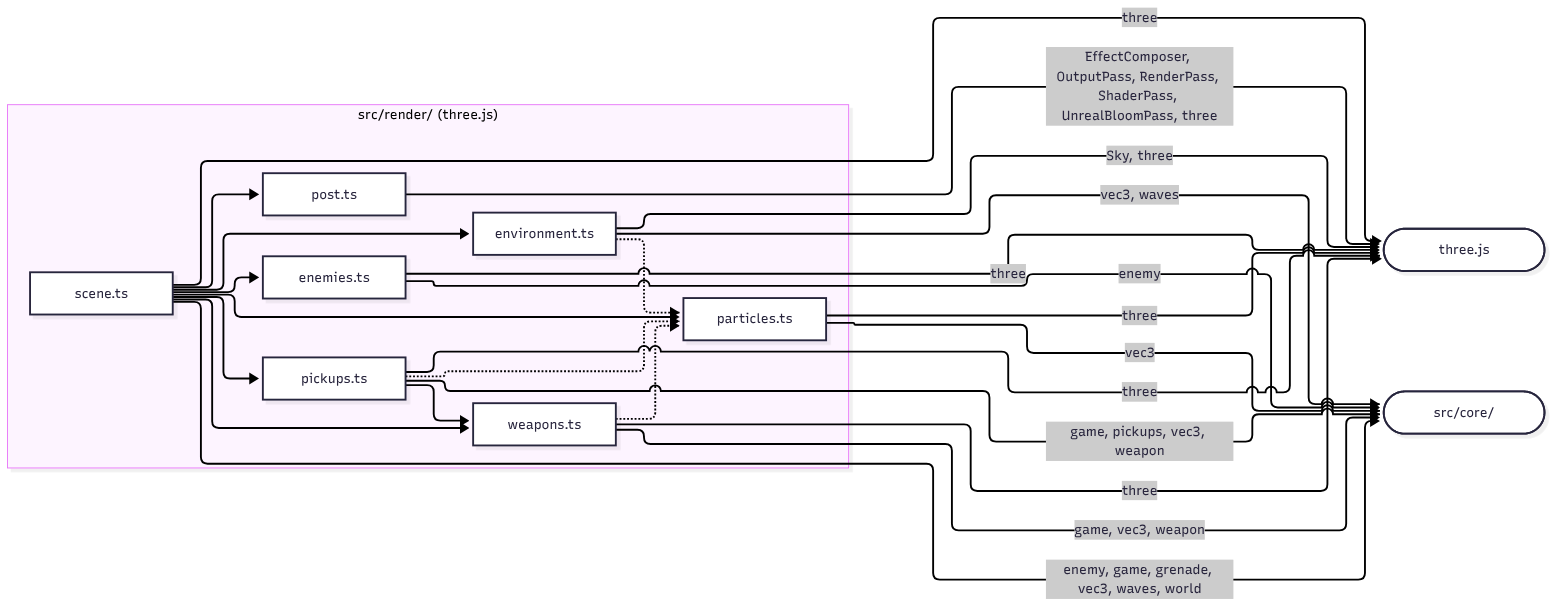
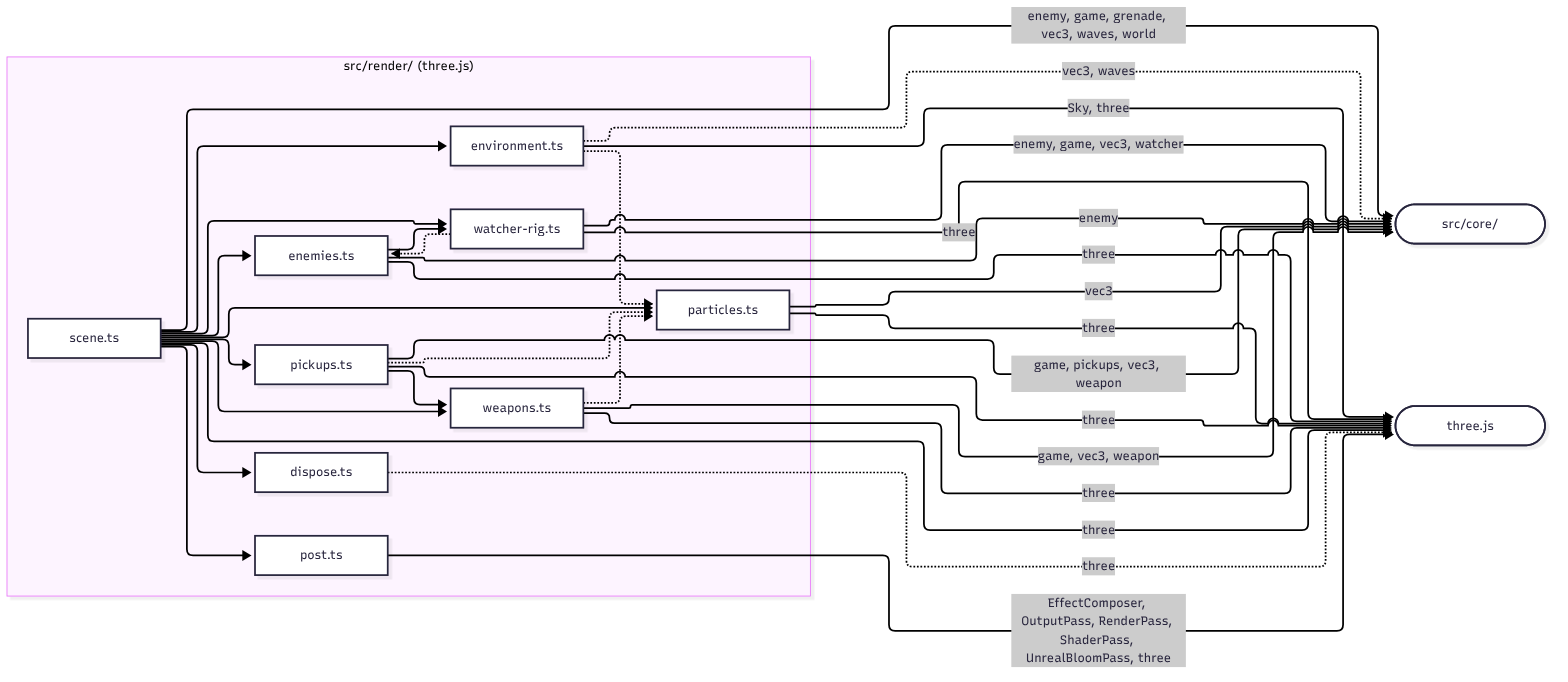
docs(architecture): regenerate against main's watcher, dispose and security job
Add responsibilities for src/core/watcher.ts, src/render/watcher-rig.ts and
src/render/dispose.ts, register the watcher rig as an event consumer and
teach the generator the `e.type !== 'x'` guard form, annotate the dropped
accumulator backlog in the frame view, and add the eighth CI job and the
CSS lint to the build view.

Claude-Session: https://claude.ai/code/session_01HcCM3Yec1g3wZNaWzyGM1b

Changed region(s): [[0.0, 0.0, 1.0, 0.9902], [0.0, 0.0619, 0.5, 0.1238], [0.125, 0.8046, 0.1562, 0.8355]]

diff --git a/docs/architecture/modules.md b/docs/architecture/modules.md
@@ -13,7 +13,7 @@ created: 2026-10-21
 
 > [Ringfall](../../README.md) > [Architecture](README.md) > Module map
 
-Every TypeScript module under `src/` with its responsibility and what it imports, read from the import declarations by `scripts/architecture.mjs`. The tree holds 30 modules in 6 layers (`audio`, `core`, `hud`, `input`, `main`, `render`) joined by 99 internal imports. A dotted arrow in the diagrams is a type-only import, which Vite erases from the bundle; a solid arrow carries runtime code.
+Every TypeScript module under `src/` with its responsibility and what it imports, read from the import declarations by `scripts/architecture.mjs`. The tree holds 33 modules in 6 layers (`audio`, `core`, `hud`, `input`, `main`, `render`) joined by 113 internal imports. A dotted arrow in the diagrams is a type-only import, which Vite erases from the bundle; a solid arrow carries runtime code.
 
 ## Allowed dependencies
 
@@ -53,7 +53,7 @@ Source: [diagrams/render-components.mmd](diagrams/render-components.mmd).
 | `src/audio/offline.ts` | `audio` | Offline score: re-runs a seeded playtest and renders its events into an `OfflineAudioContext` | `core/game` (types), `core/playtest`, `audio/sounds` |
 | `src/audio/sounds.ts` | `audio` | The procedural sound table keyed by event, the `SILENT` list and the voice scheduler | `core/game` (types), `core/weapon` |
 | `src/core/bot.ts` | `core` | Scripted player: reads the state a human could see and returns an `InputFrame` | `core/enemy`, `core/game`, `core/grenade`, `core/pickups` (types), `core/raycast`, `core/rng` (types), `core/vec3`, `core/weapon`, `core/world` (types) |
-| `src/core/enemy.ts` | `core` | Enemy state machine (`spawning`, `chase`, `attack`, `flee`, `dead`), skimmer temperaments, the rout and its bark lines | `core/rng` (types), `core/vec3`, `core/world` |
+| `src/core/enemy.ts` | `core` | Enemy state machine (`spawning`, `chase`, `attack`, `flee`, `dead`), skimmer temperaments, the rout and its bark lines | `core/rng` (types), `core/vec3`, `core/watcher`, `core/world` |
 | `src/core/game.ts` | `core` | `GameState`, `InputFrame`, the `GameEvent` union and `stepGame`: one simulation tick as a draft, eight systems in order, then a frozen state | `core/enemy`, `core/grenade`, `core/pickups`, `core/projectile`, `core/raycast`, `core/rng`, `core/vec3`, `core/vitality`, `core/waves`, `core/weapon`, `core/world` |
 | `src/core/grenade.ts` | `core` | Thrown grenades and launcher rounds: bounce, fuse, blast falloff | `core/vec3`, `core/world` |
 | `src/core/pickups.ts` | `core` | Weapon pickups: drops, wave rewards, expiry, reach and the two-slot inventory | `core/enemy` (types), `core/rng` (types), `core/vec3`, `core/weapon`, `core/world` |
@@ -65,16 +65,19 @@ Source: [diagrams/render-components.mmd](diagrams/render-components.mmd).
 | `src/core/settings.ts` | `core` | Sensitivity, field of view and motion toggles over the same storage interface | none |
 | `src/core/vec3.ts` | `core` | Immutable vector helpers and `directionFromAngles`, the single source of the yaw and pitch convention | none |
 | `src/core/vitality.ts` | `core` | Regenerating shield over fixed health; damage order and recharge | none |
+| `src/core/watcher.ts` | `core` | The watcher archetype: holds a perimeter band, strafes, telegraphs and fires a hitscan beam that cover stops | `core/enemy` (types), `core/raycast`, `core/rng` (types), `core/vec3`, `core/world` |
 | `src/core/waves.ts` | `core` | Wave state machine, composition formula, `FINAL_WAVE`, the atmosphere table | `core/enemy` (types) |
 | `src/core/weapon.ts` | `core` | Six weapon kinds as data in `WEAPON_SPECS`; magazine, reload, trigger, charge, spin-up and falloff rules | `core/raycast`, `core/vec3` (types), `core/world` (types) |
 | `src/core/world.ts` | `core` | Seeded arena generation, cover boxes, the hidden switch, axis-separated collision | `core/rng` (types), `core/vec3` |
 | `src/hud/hud.ts` | `hud` | DOM heads-up display, announcements, hit marker, damage direction and the 2D-canvas motion tracker | `core/enemy`, `core/game`, `core/vec3` (types), `core/waves`, `core/weapon`, `core/world` |
 | `src/input/input.ts` | `input` | Keyboard, mouse, wheel and pointer lock into an `InputFrame`; one-shot actions latched between steps | `core/game`, `core/vec3` |
 | `src/main.ts` | `main` | Fixed 60 Hz accumulator loop, hit-stop, overlay and pointer-lock lifecycle, settings panel, the `?record` capture hook | `audio/audio`, `audio/offline`, `core/bot`, `core/game`, `core/records`, `core/rng`, `core/settings`, `hud/hud`, `input/input`, `render/scene` |
-| `src/render/enemies.ts` | `render` | Composite enemy rigs built from primitives, with their animation | `three`, `core/enemy` |
+| `src/render/dispose.ts` | `render` | `disposeTree`: frees geometry, materials and textures under an object before it is dropped | `three` (types) |
+| `src/render/enemies.ts` | `render` | Composite enemy rigs built from primitives, with their animation | `three`, `core/enemy`, `render/watcher-rig` |
 | `src/render/environment.ts` | `render` | Sky, sun and moon, the ring, terrain, stars, the atmosphere rigs and weather overlays | `three`, `three/addons/objects/Sky.js`, `core/vec3` (types), `core/waves` (types), `render/particles` (types) |
 | `src/render/particles.ts` | `render` | GPU particle pool: one `Points` draw call, birth state written once, integrated in the vertex shader | `three`, `core/vec3` (types) |
 | `src/render/pickups.ts` | `render` | Pickup emblems, halos and the spawn and take flourishes | `three`, `core/game` (types), `core/pickups` (types), `core/vec3` (types), `core/weapon` (types), `render/particles` (types), `render/weapons` |
 | `src/render/post.ts` | `render` | HDR composer: render pass, capped bloom prefilter, feel pass, ACES output | `three`, `three/addons/postprocessing/EffectComposer.js`, `three/addons/postprocessing/OutputPass.js`, `three/addons/postprocessing/RenderPass.js`, `three/addons/postprocessing/ShaderPass.js`, `three/addons/postprocessing/UnrealBloomPass.js` |
-| `src/render/scene.ts` | `render` | `SceneRenderer`: owns the three.js scene, camera and post stack; mirrors `GameState` every frame and plays effects for events | `three`, `core/enemy` (types), `core/game`, `core/grenade`, `core/vec3` (types), `core/waves`, `core/world`, `render/enemies`, `render/environment`, `render/particles`, `render/pickups`, `render/post`, `render/weapons` |
+| `src/render/scene.ts` | `render` | `SceneRenderer`: owns the three.js scene, camera and post stack; mirrors `GameState` every frame and plays effects for events | `three`, `core/enemy` (types), `core/game`, `core/grenade`, `core/vec3` (types), `core/waves`, `core/world`, `render/dispose`, `render/enemies`, `render/environment`, `render/particles`, `render/pickups`, `render/post`, `render/watcher-rig`, `render/weapons` |
+| `src/render/watcher-rig.ts` | `render` | The watcher rig: a tall tripod with a lens that brightens over the charge, and the beam layer | `three`, `core/enemy` (types), `core/game` (types), `core/vec3` (types), `core/watcher`, `render/enemies` (types) |
 | `src/render/weapons.ts` | `render` | One viewmodel rig per weapon kind: draw, recoil, muzzle flash, tracers, beam and launcher effects | `three`, `core/game` (types), `core/vec3` (types), `core/weapon`, `render/particles` (types) |

diff --git a/docs/architecture/README.md b/docs/architecture/README.md
@@ -94,7 +94,7 @@ Source: [diagrams/containers.mmd](diagrams/containers.mmd).
 | Luminance gate | Playwright Chromium on software GL | Ten seeded frames measured against budgets | `scripts/frames.mjs` |
 | Recorder and score | Playwright Chromium, ffmpeg, `OfflineAudioContext` | A seeded film and its soundtrack | `scripts/record-demo.mjs`, `scripts/render-score.mjs` |
 | Reel | Playwright Chromium, ffmpeg | Title cards, two waves, stitched cut | `scripts/reel.mjs` |
-| CI | GitHub Actions, every action pinned to a commit SHA | Seven gate jobs and the Pages deploy | `.github/workflows/` |
+| CI | GitHub Actions, every action pinned to a commit SHA | Eight gate jobs and the Pages deploy | `.github/workflows/` |
 
 ## Level 3: components
 
@@ -121,7 +121,8 @@ module imports three.js directly.
 `requestAnimationFrame` callback adds the elapsed wall time, clamped to
 between zero and a tenth of a second, to an accumulator, then steps the
 simulation at exactly 1/60 s while at least that much time is banked,
-capped at five steps per frame. Each step takes one `InputFrame` from the
+capped at five steps per frame; anything banked beyond that cap is dropped
+rather than deferred, so a stalled tab never fast-forwards. Each step takes one `InputFrame` from the
 input controller (or from the bot in `?bot` mode), calls `stepGame`, and
 fans the returned events out to the renderer, the HUD and the audio bank,
 in that order. After the steps the HUD renders the state and the renderer
@@ -181,7 +182,8 @@ runs the same scripts.
 | `pnpm dev` | Vite dev server with hot reload on port 5173 |
 | `pnpm build` | `tsc --noEmit`, then `vite build` to `dist/` |
 | `pnpm preview` | Serves `dist/` on port 4173; Playwright and the harnesses use it |
-| `pnpm lint`, `pnpm lint:fix` | Biome in CI mode plus markdownlint; the fix variant rewrites |
+| `pnpm lint`, `pnpm lint:fix` | Biome in CI mode, markdownlint, stylelint and Prettier on CSS; the fix variant rewrites |
+| `pnpm audit` | Production dependency advisories at high severity or above |
 | `pnpm typecheck` | Strict `tsc --noEmit` |
 | `pnpm test` | Vitest unit and balance suites with V8 coverage thresholds on `src/core/` |
 | `pnpm test:e2e` | Playwright smoke tests in real Chromium against `vite preview` |
@@ -192,7 +194,7 @@ runs the same scripts.
 | `pnpm balance` | The balance gate; writes `test-results/balance/` |
 | `pnpm demo` | Films seed 7 and scores it into `demo.mp4` |
 
-The CI workflow in `.github/workflows/ci.yml` runs seven independent jobs
+The CI workflow in `.github/workflows/ci.yml` runs eight independent jobs
 on every push and pull request; a pull request push cancels a superseded
 run, a push to `main` always runs to completion. The deploy workflow runs
 on a push to `main` only. Every action is pinned to a commit SHA and
@@ -208,9 +210,10 @@ write permission.
 | Production build | `vite build` succeeds | `dist` |
 | Balance gate | Twenty seeded games per profile within `tests/balance/gate.ts` | `balance-report`, also appended to the job summary |
 | Docs hygiene | Frontmatter, typos, Vale, internal links; external links advisory | none |
+| Security and workflow hygiene | `pnpm audit`, actionlint, zizmor and gitleaks, each pinned by checksum | none |
 | Deploy to GitHub Pages | `build` job uploads `dist/`, `deploy` job publishes it | the live site |
 
-![Build and delivery: the seven CI jobs, the two-job Pages deploy, and the local recorder, reel and documentation pipelines](render/build.png)
+![Build and delivery: the eight CI jobs, the two-job Pages deploy, and the local recorder, reel and documentation pipelines](render/build.png)
 
 Source: [diagrams/build.mmd](diagrams/build.mmd).
 

diff --git a/docs/architecture/events.md b/docs/architecture/events.md
@@ -13,7 +13,7 @@ created: 2026-10-21
 
 > [Ringfall](../../README.md) > [Architecture](README.md) > Event catalogue
 
-Every member of the `GameEvent` union in `src/core/game.ts`, with the function in `stepGame` that pushes it, the presentation code that switches on it, and its entry in the sound table. `scripts/architecture.mjs` reads the union, the `events.push` sites, the `switch (e.type)` and `e.type ===` tests in the consumer files, and `SOUNDS` and `SILENT` in `src/audio/sounds.ts`. The union has 24 events; 3 are silent on purpose and the rest have a sound. A consumer cell names the file and what it does: `reacts` runs code, `announces` prints a HUD message, `named, no action` lists the case and breaks.
+Every member of the `GameEvent` union in `src/core/game.ts`, with the function in `stepGame` that pushes it, the presentation code that switches on it, and its entry in the sound table. `scripts/architecture.mjs` reads the union, the `events.push` sites, the `switch (e.type)`, `e.type ===` and `e.type !==` tests in the consumer files, and `SOUNDS` and `SILENT` in `src/audio/sounds.ts`. The union has 26 events; 5 are silent on purpose and the rest have a sound. A consumer cell names the file and what it does: `reacts` runs code, `announces` prints a HUD message, `named, no action` lists the case and breaks.
 
 `src/core/bot.ts` is scanned and consumes no event: the bot reads `GameState` directly, as a player reads the screen.
 
@@ -40,6 +40,8 @@ Every member of the `GameEvent` union in `src/core/game.ts`, with the function i
 | `playerDamaged` | `amount: number`, `from: Vec3 \| null` | `hurtPlayer` | scene: reacts | hud: reacts | playtest: reacts |  |  | `playerDamaged` (1 voice) |
 | `shieldBroken` | none | `hurtPlayer` | scene: reacts | hud: announces | playtest: reacts |  | main: reacts | `shieldBroken` (1 voice) |
 | `boltFired` | `id: number` | `stepEnemies` | scene: named, no action |  |  |  |  | `boltFired` (1 voice) |
+| `watcherCharging` | `id: number`, `at: Vec3` | `stepEnemies` |  |  |  |  |  | `SILENT` |
+| `watcherFired` | `id: number`, `from: Vec3`, `to: Vec3`, `hit: boolean` | `stepEnemies` | watcher-rig: reacts |  |  |  |  | `SILENT` |
 | `waveStarted` | `number: number` | `spawnWave` |  | hud: announces | playtest: reacts |  |  | `waveStarted` (1 voice) |
 | `waveCleared` | `number: number` | `stepWaves` |  | hud: announces | playtest: reacts |  |  | `waveCleared` (1 voice) |
 | `playerDied` | none | `hurtPlayer` |  |  |  |  |  | `playerDied` (1 voice) |
